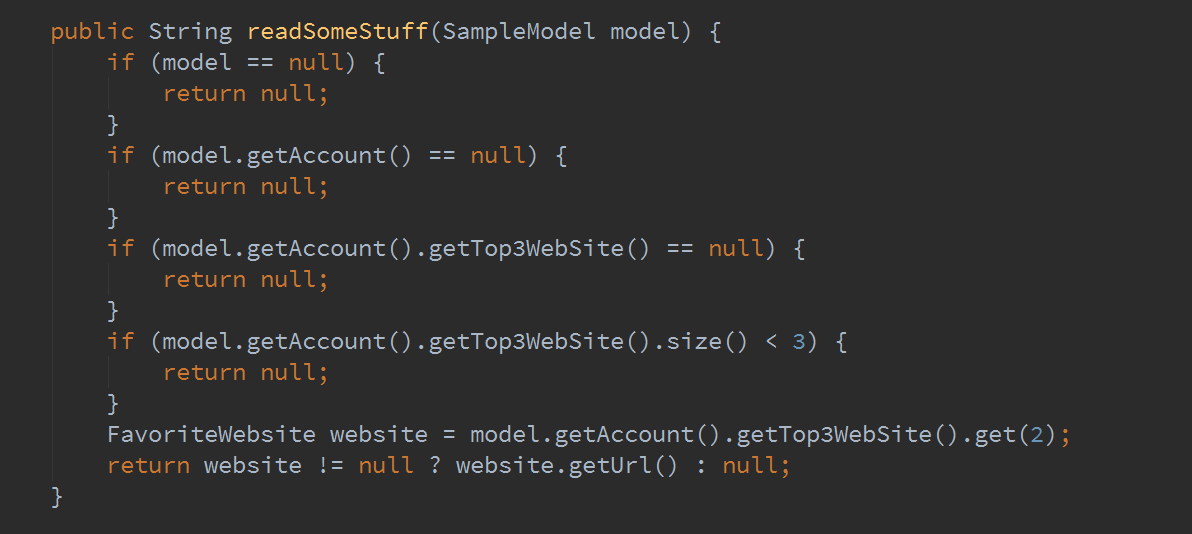
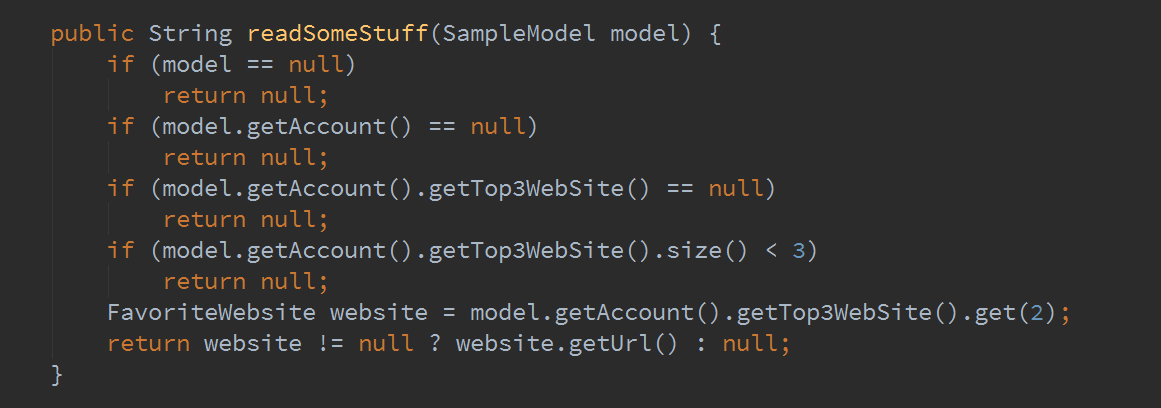
fix code sample add slides

diff --git a/doc/org_modelmap.html b/doc/org_modelmap.html
@@ -43,15 +43,19 @@
           <div class="fragment">
             <h2>@gdigugli – Gilles Di Guglielmo</h2>
             <ul>
-              <p>Java Developer since 1999<br/>
-              Architecte chez LesFurets.com</p>
+              <p>
+                Java Developer since 1999<br/>
+                Architecte chez LesFurets.com
+              </p>
             </ul>
           </div>
           <p/>
           <div class="fragment">
             <h2>@jubaudry – Julien Baudry</h2>
-            <p>Java Developer since 2007<br/>
-            Architecte chez LesFurets.com</p>
+            <p>
+              Java Developer since 2007<br/>
+              Architecte chez LesFurets.com
+            </p>
           </div>
         </section>
         <section>
@@ -79,11 +83,21 @@
           <h2>Domain Model</h2>
         </section>
         <section>
+          <p>TODO : sans field id</p>
           <img width="100%" src="png/org_modelmap.png">
         </section>
+        <section data-transition="fade">
+          <h2>Utilisation de ces objets</h2>
+          <p>
+            code difficile à lire</br>
+            pattern répétitif</br>
+            source d'erreur
+          </p>
+          <img width="100%" src="png/org_modelmap_account_code_sample_1_1.png">
+        </section>
         <section>
-          <p>TODO : exemple de getter/setter sur le domain model</p>
-          <p>TODO : longueur, lisibilité, risque d'erreur...</p>
+          <p>TODO : avec field id + java enum</p>
+          <img width="100%" src="png/org_modelmap.png">
         </section>
         <section>
           <h2>User</h2>

diff --git a/sample/test/src/main/java/org/modelmap/ExampleAccount.java b/sample/test/src/main/java/org/modelmap/ExampleAccount.java
@@ -14,39 +14,30 @@ public class ExampleAccount {
     public class WithJavaBean {
 
         public String readSomeStuff(SampleModel model) {
-            if (model == null) {
+            if (model == null)
                 return null;
-            }
-            if (model.getAccount() == null) {
+            if (model.getAccount() == null)
                 return null;
-            }
-            if (model.getAccount().getTop3WebSite() == null) {
+            if (model.getAccount().getTop3WebSite() == null)
                 return null;
-            }
-            if (model.getAccount().getTop3WebSite().size() < 3) {
+            if (model.getAccount().getTop3WebSite().size() < 3)
                 return null;
-            }
             FavoriteWebsite website = model.getAccount().getTop3WebSite().get(2);
             return website != null ? website.getUrl() : null;
         }
 
         public void updateSomeStuff(SampleModel model, String url) {
-            if (model == null) {
+            if (model == null)
                 return;
-            }
-            if (model.getAccount() == null) {
+            if (model.getAccount() == null)
                 return;
-            }
-            if (model.getAccount().getTop3WebSite() == null) {
+            if (model.getAccount().getTop3WebSite() == null)
                 return;
-            }
-            if (model.getAccount().getTop3WebSite().size() < 3) {
+            if (model.getAccount().getTop3WebSite().size() < 3)
                 return;
-            }
             FavoriteWebsite website = model.getAccount().getTop3WebSite().get(2);
-            if (website != null) {
+            if (website != null)
                 website.setUrl(url);
-            }
         }
 
     }

diff --git a/sample/test/src/main/java/org/modelmap/ExampleUser.java b/sample/test/src/main/java/org/modelmap/ExampleUser.java
@@ -15,22 +15,18 @@ public class ExampleUser {
     public class WithJavaBean {
 
         public LocalDate readSomeStuff(SampleModel model) {
-            if (model == null) {
+            if (model == null)
                 return null;
-            }
-            if (model.getUser() == null) {
+            if (model.getUser() == null)
                 return null;
-            }
             return model.getUser().getBirthDate();
         }
 
         public void updateSomeStuff(SampleModel model, LocalDate birthDate) {
-            if (model == null) {
+            if (model == null)
                 return;
-            }
-            if (model.getUser() == null) {
+            if (model.getUser() == null)
                 return;
-            }
             model.getUser().setBirthDate(birthDate);
         }
 
